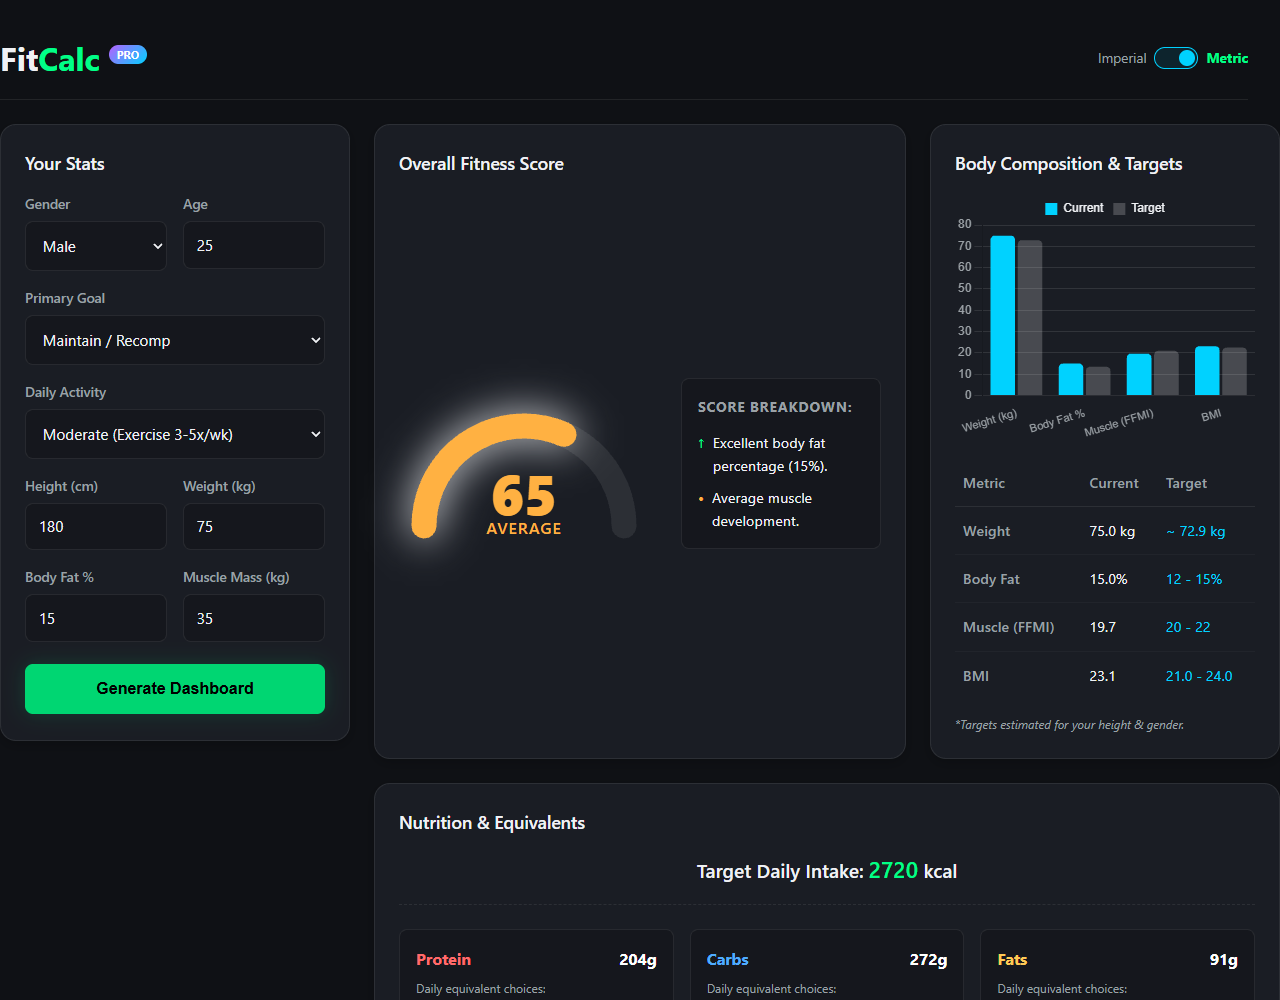
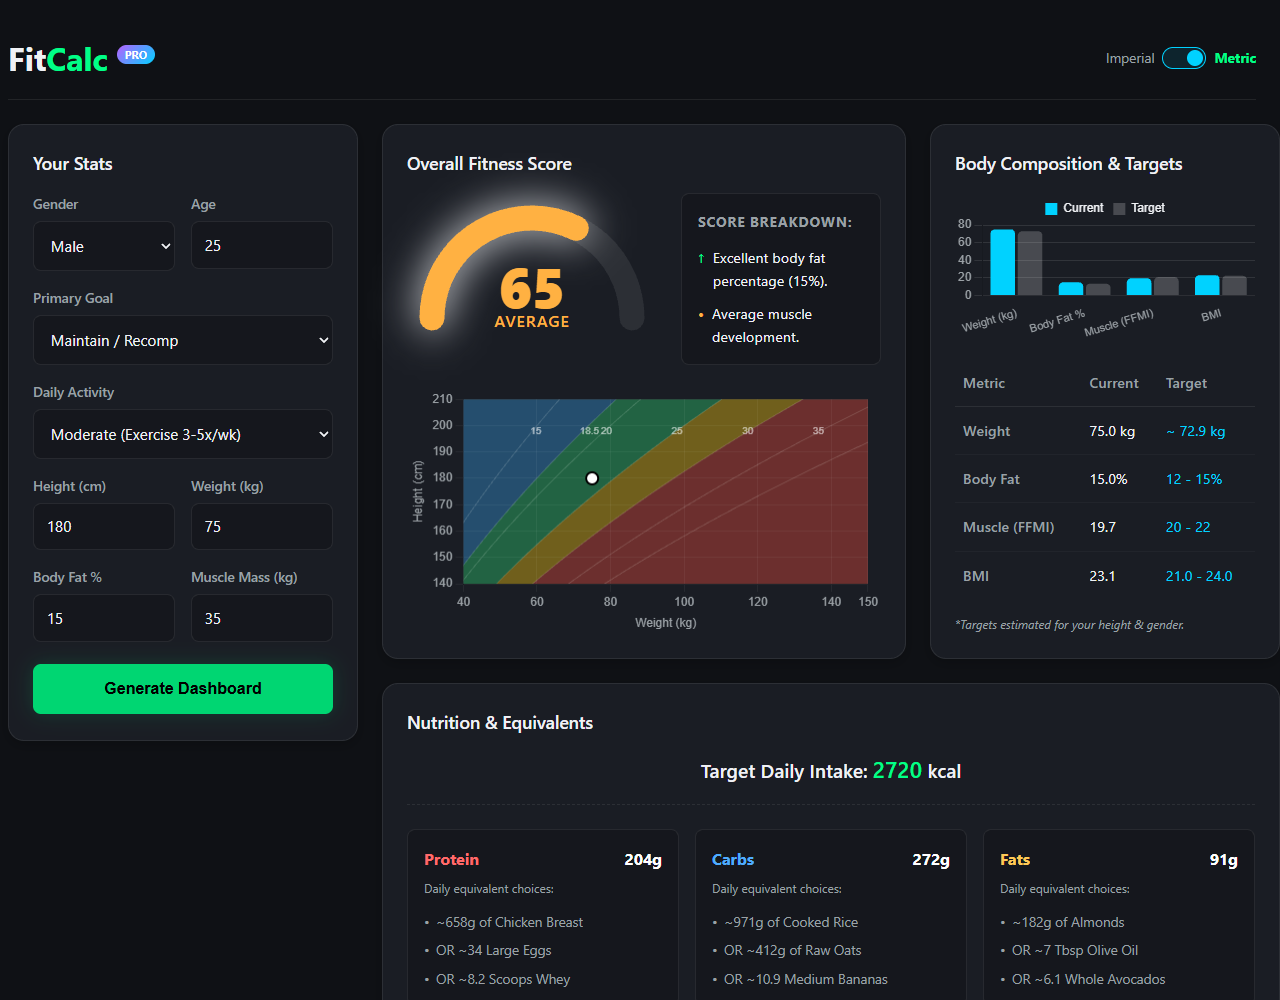
docs: add project documentation and updated screenshot

diff --git a/README.md b/README.md
@@ -1,0 +1,85 @@
+# FitCalc 2.0 - Advanced Fitness Dashboard
+
+FitCalc 2.0 is a modern, responsive web application designed to help users calculate, visualize, and track their fitness metrics. Built with vanilla web technologies, it provides a comprehensive dashboard for body composition analysis, nutrition planning, and exercise strategy.
+
+![FitCalc Dashboard Screenshot](./screenshot.png)
+
+## Features
+
+### 📊 Core Calculations
+
+- **TDEE & BMR Calculation**: Uses the Mifflin-St Jeor equation to estimate daily energy expenditure.
+- **Body Composition Analysis**: Calculates Body Fat Percentage, Lean Mass, and Fat Mass.
+- **Goal Setting**: Supports three primary goals: Fat Loss, Maintenance/Recomp, and Muscle Building.
+- **Unit Conversion**: Seamless toggle between Metric (kg/cm) and Imperial (lbs/ft) units.
+
+### 📈 Visualizations
+
+- **Overall Fitness Score**: A dynamic gauge chart that rates your fitness level based on body fat and BMI.
+- **BMI Scatter Plot**: A 2D chart plotting BMI against Body Fat % with color-coded health zones (Underweight, Healthy, Overweight, Obese).
+- **Interactive Charts**: Powered by Chart.js for visualizing current vs. target metrics.
+
+### 🥗 Nutrition & Planning
+
+- **Macro Breakdown**: Detailed daily macronutrient targets (Protein, Carbs, Fats) tailored to your goal.
+- **Food Equivalents**: Visual references for portion sizes (e.g., "4 Chicken Breasts", "2 Avocados").
+- **Meal Plan**: A 3-day rotating meal plan suggestion based on calculated caloric needs.
+- **Exercise Strategy**: Customized workout recommendations based on activity level and goals.
+
+### 💾 Persistence
+
+- **Local Storage**: Automatically saves your stats and preferences so you don't lose progress on refresh.
+
+## Tech Stack
+
+- **HTML5**: Semantic markup for accessibility and structure.
+- **CSS3**: Modern styling with BEM methodology, CSS Variables (Custom Properties), Flexbox, and Grid.
+- **JavaScript (ES6+)**: Vanilla JS for logic, DOM manipulation, and state management.
+- **Chart.js**: For rendering the BMI scatter plot and body composition charts.
+- **Tooling**:
+  - `serve`: For local development.
+  - `prettier`: For code formatting.
+
+## Getting Started
+
+1.  **Clone the repository:**
+
+    ```bash
+    git clone https://github.com/your-username/vibe-FitCalc.git
+    cd vibe-FitCalc
+    ```
+
+2.  **Install dependencies:**
+
+    ```bash
+    npm install
+    ```
+
+3.  **Run the development server:**
+    ```bash
+    npm run dev
+    ```
+    Open your browser to `http://localhost:3000` (or the port shown in the terminal).
+
+## Project Structure
+
+```
+vibe-FitCalc/
+├── index.html          # Main application structure
+├── style.css           # Global styles and responsive design
+├── app.js              # Core logic, calculations, and chart rendering
+├── screenshot.png      # Latest dashboard preview
+└── package.json        # Project dependencies and scripts
+```
+
+## Contributing
+
+1.  Fork the repository.
+2.  Create your feature branch (`git checkout -b feature/AmazingFeature`).
+3.  Commit your changes (`git commit -m 'Add some AmazingFeature'`).
+4.  Push to the branch (`git push origin feature/AmazingFeature`).
+5.  Open a Pull Request.
+
+## License
+
+This project is licensed under the ISC License.
